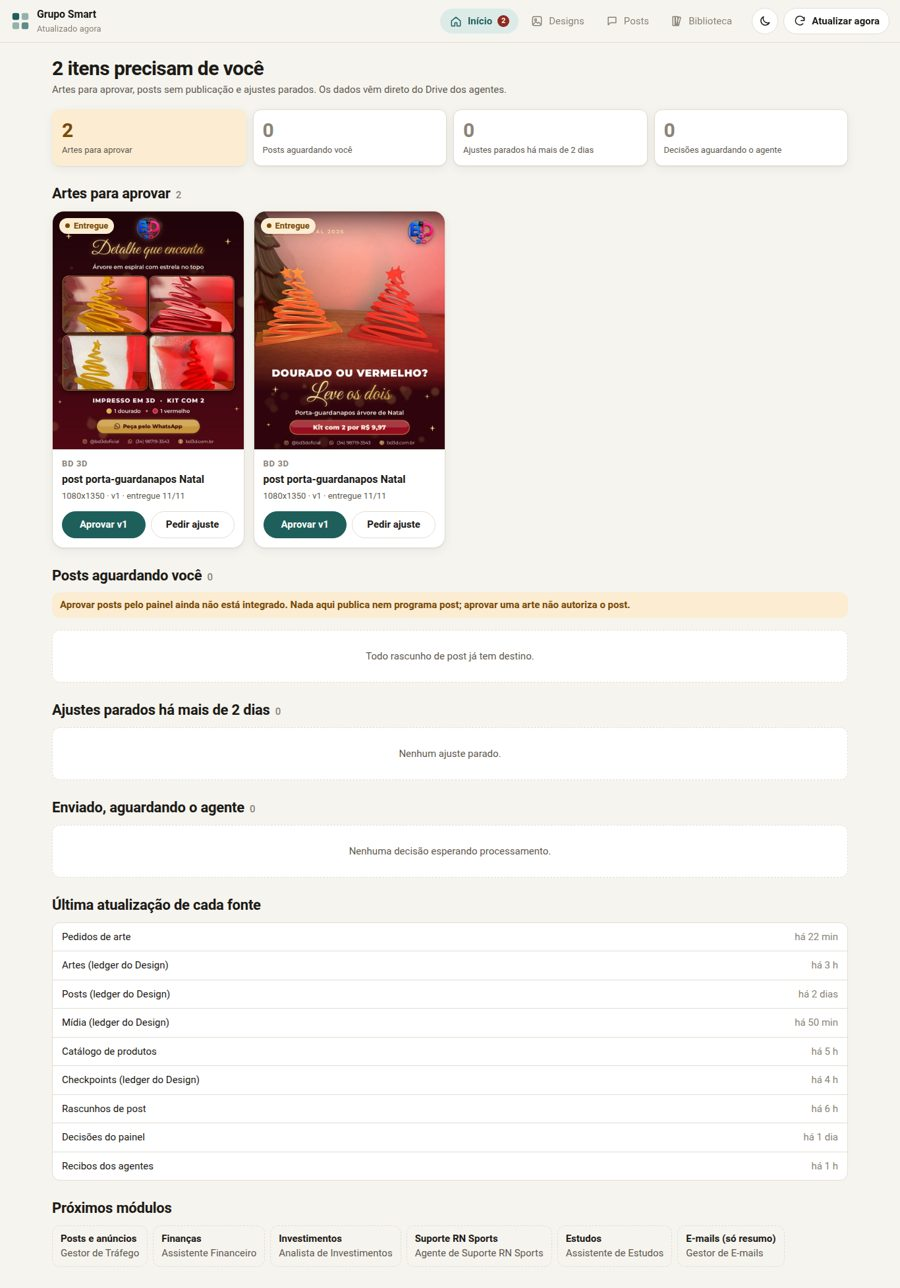
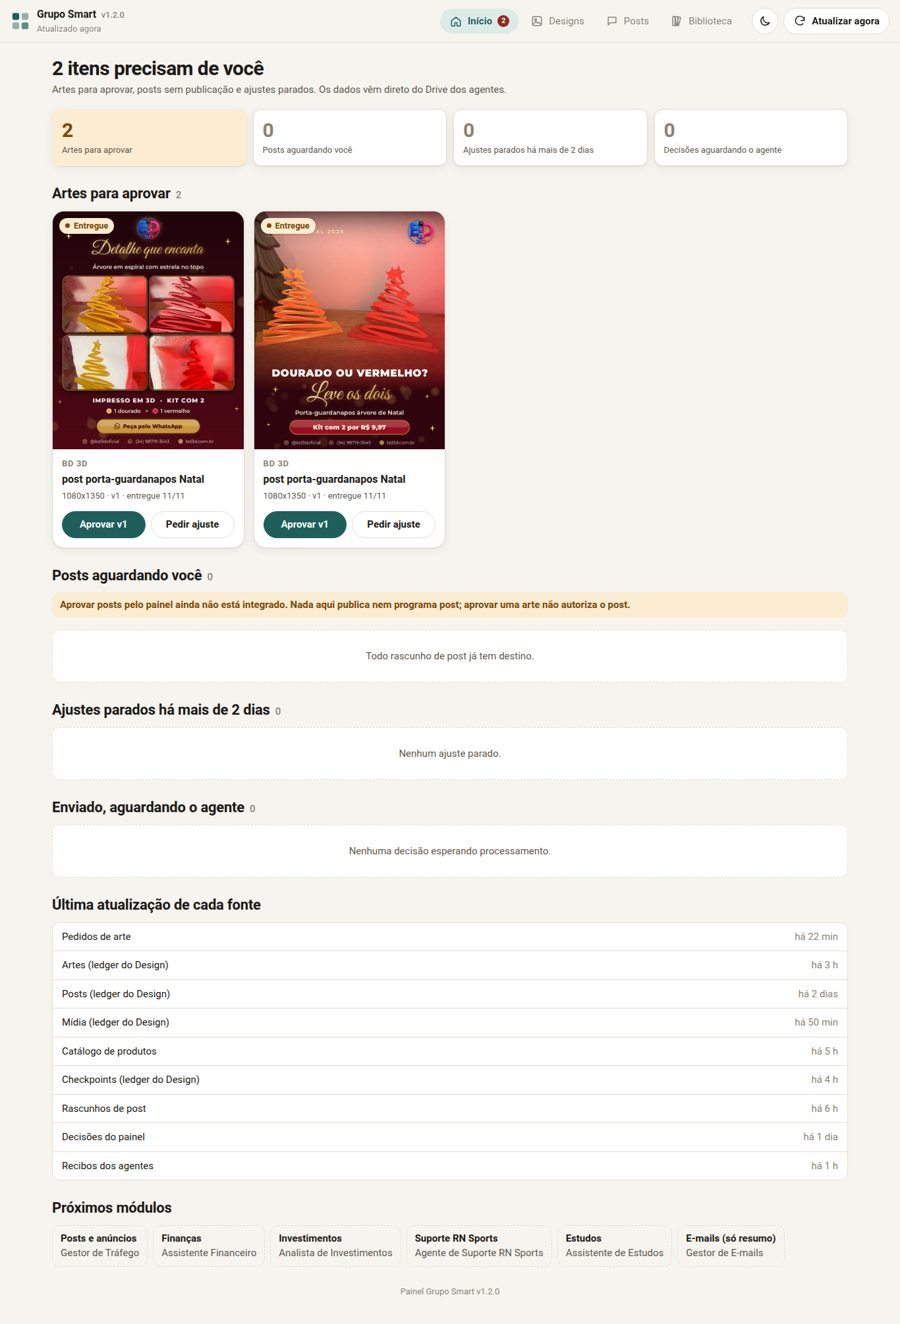
Versão do painel no topo e no rodapé do Início (v1.2.0)

diff --git a/src/Styles.html b/src/Styles.html
@@ -70,6 +70,8 @@ a { color: var(--acento); }
 .topo-marca { display: flex; align-items: center; gap: 10px; min-width: 0; flex: 1; }
 .logo { width: 30px; height: 30px; color: var(--acento); stroke: none; }
 .topo-titulo { font-weight: 700; letter-spacing: -.01em; }
+.rodape-versao { margin: 28px 0 8px; text-align: center; font-size: var(--text-xs); color: var(--texto-3); }
+.topo-versao { font-size: var(--text-xs); font-weight: 500; color: var(--texto-3); margin-left: 4px; }
 .topo-sub { font-size: var(--text-xs); color: var(--texto-3); white-space: nowrap; overflow: hidden; text-overflow: ellipsis; }
 .topo-acoes { display: flex; gap: 8px; align-items: center; }
 .abas { position: fixed; left: 0; right: 0; bottom: 0; z-index: 30; display: grid; grid-template-columns: repeat(4, 1fr); background: var(--superficie); border-top: 1px solid var(--borda); padding-bottom: env(safe-area-inset-bottom); }

diff --git a/src/Index.html b/src/Index.html
@@ -14,7 +14,7 @@
     <div class="topo-marca">
       <svg class="logo" viewBox="0 0 32 32" aria-hidden="true"><rect x="3" y="3" width="11" height="11" rx="3" fill="currentColor"/><rect x="18" y="3" width="11" height="11" rx="3" fill="currentColor" opacity=".45"/><rect x="3" y="18" width="11" height="11" rx="3" fill="currentColor" opacity=".45"/><rect x="18" y="18" width="11" height="11" rx="3" fill="currentColor" opacity=".7"/></svg>
       <div>
-        <div class="topo-titulo">Grupo Smart</div>
+        <div class="topo-titulo">Grupo Smart <span class="topo-versao" title="Versão do painel">v<?= versao ?></span></div>
         <div class="topo-sub" id="status-atualizacao">Carregando…</div>
       </div>
     </div>

diff --git a/src/App.html b/src/App.html
@@ -168,6 +168,8 @@
     }).join('') + '</div>';
     var proximos = (d.modulos || []).filter(function (m) { return !m.ativo; });
     if (proximos.length) h += '<h2>Próximos módulos</h2><div class="modulos">' + proximos.map(function (m) { return '<div class="modulo"><b>' + esc(m.rotulo) + '</b>' + esc(m.agente || 'em breve') + '</div>'; }).join('') + '</div>';
+    var v = document.querySelector('.topo-versao');
+    if (v) h += '<p class="rodape-versao">Painel Grupo Smart ' + esc(v.textContent) + '</p>';
     $('#aba-inicio').innerHTML = h;
   }
 

diff --git a/dev/build.js b/dev/build.js
@@ -51,7 +51,8 @@ window.google = { script: { get run() {
 </script>`;
 let html = ler('Index')
   .replace("<?!= include('Styles'); ?>", ler('Styles'))
-  .replace("<?!= include('App'); ?>", mock + ler('App'));
+  .replace("<?!= include('App'); ?>", mock + ler('App'))
+  .replace('<?= versao ?>', (fs.readFileSync(path.join(raiz, 'src', 'Lib.gs'), 'utf8').match(/VERSAO_PAINEL = '([^']+)'/) || [, '?'])[1]);
 if (/<\?/.test(html)) throw new Error('sobrou scriptlet');
 const out = path.join(__dirname, 'out');
 fs.mkdirSync(out, { recursive: true });

diff --git a/test/lib.test.js b/test/lib.test.js
@@ -207,3 +207,8 @@ test('validarDecisao', () => {
   assert.throws(() => L.validarDecisao(null), /vazia/);
   assert.equal(L.validarDecisao({ modulo: 'design', item_id: 'post:P-1', decisao: 'refazer', comentario: 'trocar foto', snapshot_hash: H }).comentario, 'trocar foto');
 });
+
+test('versão do painel: semver e igual ao package.json', () => {
+  assert.match(L.VERSAO_PAINEL, /^\d+\.\d+\.\d+$/);
+  assert.equal(L.VERSAO_PAINEL, require('../package.json').version);
+});

diff --git a/README.md b/README.md
@@ -154,7 +154,7 @@ O painel nunca deduz "publicado" pelo relógio. Programado com horário vencido 
 npm test
 ```
 
-21 testes: CSV com BOM, CRLF, aspas e quebra de linha; CSV quebrado; colunas ausentes; leitura dos CSVs reais; marcas `post:`; rascunho `post-*.md`; o modelo das telas; decisões, hash, versão velha, decisão repetida, estado inválido, recibos, cabeçalho antigo e a regra do relógio; e o `Code.gs` com os serviços do Google simulados (cache, fonte quebrada, gravação em `decisoes.csv`).
+22 testes: CSV com BOM, CRLF, aspas e quebra de linha; CSV quebrado; colunas ausentes; leitura dos CSVs reais; marcas `post:`; rascunho `post-*.md`; o modelo das telas; decisões, hash, versão velha, decisão repetida, estado inválido, recibos, cabeçalho antigo e a regra do relógio; a versão do painel; e o `Code.gs` com os serviços do Google simulados (cache, fonte quebrada, gravação em `decisoes.csv`).
 
 Para ver a página localmente com os dados das fixtures:
 
@@ -176,6 +176,8 @@ O projeto já existe no seu Drive: pasta `painel-grupo-smart`, arquivo **Painel 
 6. Copie a URL que termina em `/exec` e salve nos favoritos do celular.
 
 ## Como reimplantar depois de uma mudança
+
+Antes, suba `VERSAO_PAINEL` em `src/Lib.gs` e `version` no `package.json` (o teste confere que são iguais). A versão aparece no topo, ao lado de "Grupo Smart".
 
 1. Atualize os arquivos do projeto (cole o conteúdo de `src/` no editor ou suba de novo pelo Drive).
 2. **Implantar** > **Gerenciar implantações** > lápis na implantação ativa > **Versão: Nova versão** > **Implantar**.
